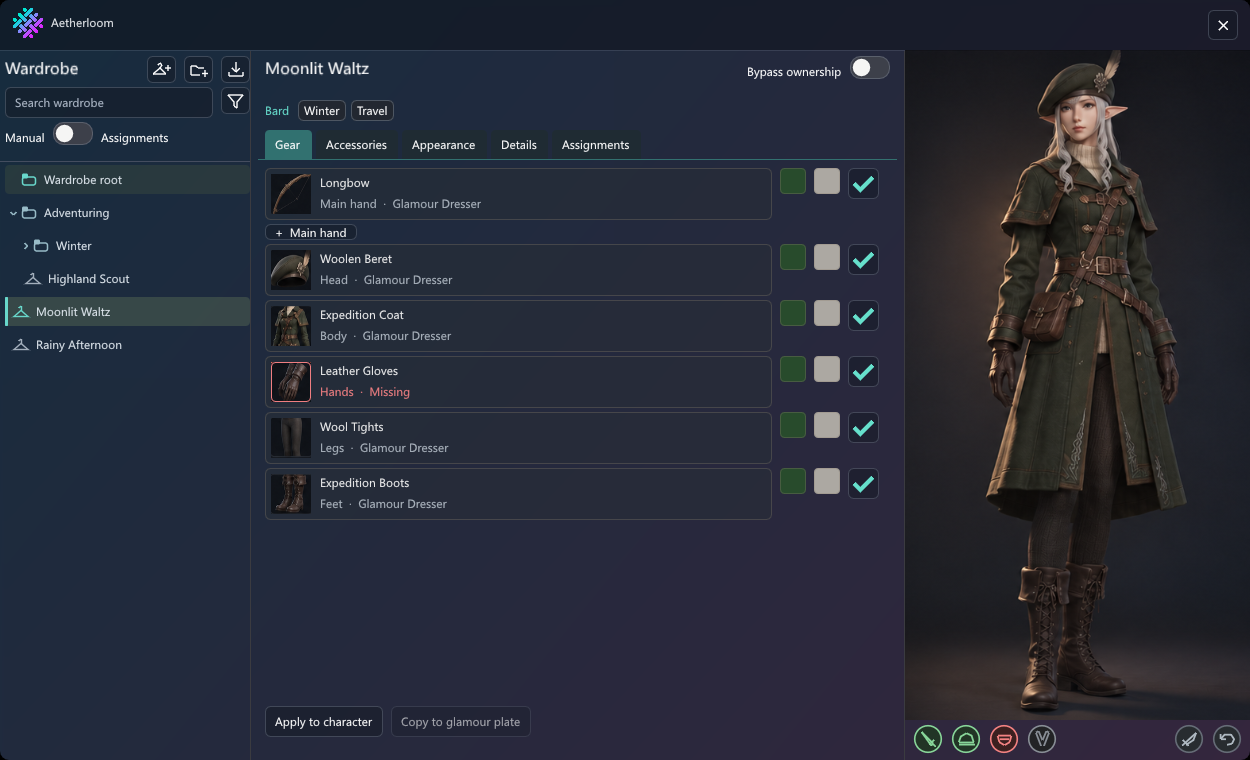
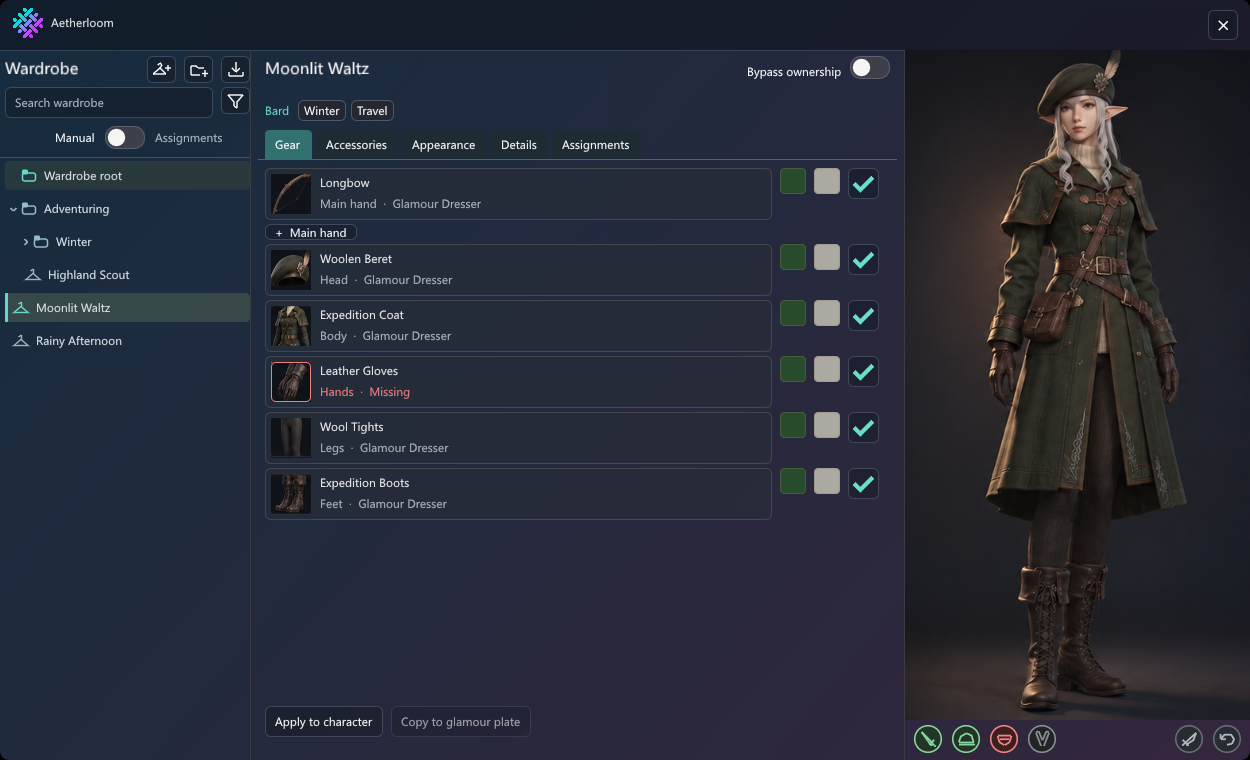
Update Aetherloom wardrobe preview for favourites and appearance bases

Changed region(s): [[0.0, 0.3632, 0.1872, 0.4842], [0.0, 0.1513, 0.1872, 0.2421], [0.0, 0.2724, 0.0936, 0.3329]]

diff --git a/WardrobePreview/Program.cs b/WardrobePreview/Program.cs
@@ -60,7 +60,7 @@ internal sealed class RenderForm(string? scene,string? output):Form
         }
         if(scene=="global-mode" && frame is >=3 and <=8)
         {
-            io.AddMousePosEvent(frame<=5?68:64,frame<=5?136:311);
+            io.AddMousePosEvent(frame<=5?125:64,frame<=5?138:311);
             if(frame is 4 or 5 or 7 or 8)io.AddMouseButtonEvent(0,frame is 4 or 7);
         }
         if(scene is "rule-conflict" or "rule-cancel" or "rule-move")
@@ -81,7 +81,7 @@ internal sealed class RenderForm(string? scene,string? output):Form
         }
         if((scene is "filter-clear" or "tag-select") && frame is 3 or 4 or 5)
         {
-            io.AddMousePosEvent(scene=="filter-clear"?277:480,scene=="filter-clear"?471:389);
+            io.AddMousePosEvent(scene=="filter-clear"?277:480,scene=="filter-clear"?510:389);
             if(frame>=4)io.AddMouseButtonEvent(0,frame==4);
         }
         if((scene is "folder-menu" or "design-menu" or "design-clone") && frame is 2 or 3)
@@ -93,6 +93,11 @@ internal sealed class RenderForm(string? scene,string? output):Form
         {
             io.AddMousePosEvent(132,321);
             if(frame>=6)io.AddMouseButtonEvent(0,frame==6);
+        }
+        if(scene=="favourite-design" && frame is 2 or 3 or 4)
+        {
+            io.AddMousePosEvent(277,68);
+            if(frame>=3)io.AddMouseButtonEvent(0,frame==3);
         }
         if(scene=="ownership-bypass" && frame is 2 or 3 or 4)
         {
@@ -136,6 +141,8 @@ internal sealed class RenderForm(string? scene,string? output):Form
                 throw new InvalidOperationException("Clearing filters must preserve the search text.");
             if(scene=="tag-select" && !fixture!.Tags.Contains("style:Vintage"))
                 throw new InvalidOperationException("Selecting a style suggestion must save its category.");
+            if(scene=="favourite-design" && !fixture!.IsFavourite(fixture.Selected))
+                throw new InvalidOperationException("The star must favourite the selected design.");
             if(scene=="ownership-bypass" && !fixture!.BypassOwnership)
                 throw new InvalidOperationException("Design title switch did not enable the ownership bypass.");
             if(scene=="design-clone" && (fixture!.Title!="Highland Scout (copy)" ||

diff --git a/WardrobePreview/WardrobeFixture.cs b/WardrobePreview/WardrobeFixture.cs
@@ -13,6 +13,13 @@ internal sealed class WardrobeFixture:IWardrobe
     public WardrobeLayout Layout=null!;
     public ImTextureID? HeaderMark {get;}
     public Guid Selected{get;private set;}
+    private readonly HashSet<Guid> favourites=[];
+    private readonly Dictionary<Guid,Guid> links=[];
+    public bool IsFavourite(Guid id)=>favourites.Contains(id);
+    public void ToggleFavouriteDesign(){if(!favourites.Remove(Selected))favourites.Add(Selected);}
+    public IEnumerable<LibraryDesign> Bases {get;}=[new(Guid.NewGuid(),"Viera appearance",["aetherloom-base"],"Appearance")];
+    public Guid? LinkedBase=>links.TryGetValue(Selected,out var value)?value:null;
+    public void SetBase(Guid? id){if(id.HasValue)links[Selected]=id.Value;else links.Remove(Selected);}
     public string Title=>designs.FirstOrDefault(d=>d.Id==Selected).Name??"";
     public string[] Tags=>designs.FirstOrDefault(d=>d.Id==Selected).Tags??[];
     public IReadOnlyList<string> KnownTags=>designs.SelectMany(d=>d.Tags).Distinct(StringComparer.OrdinalIgnoreCase).ToArray();
